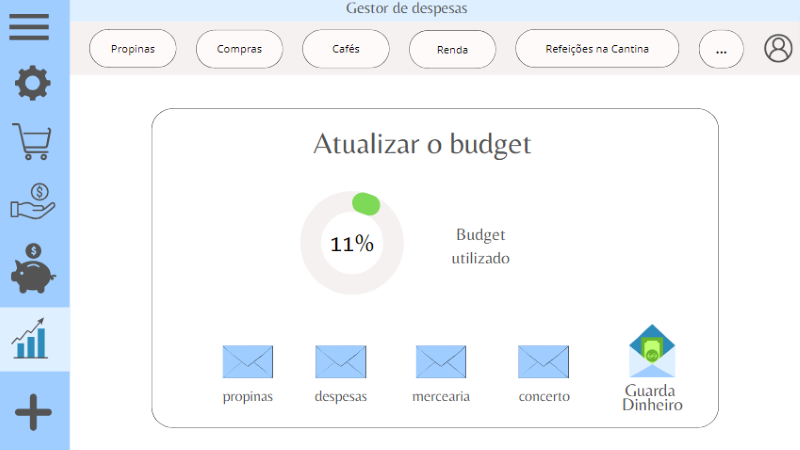
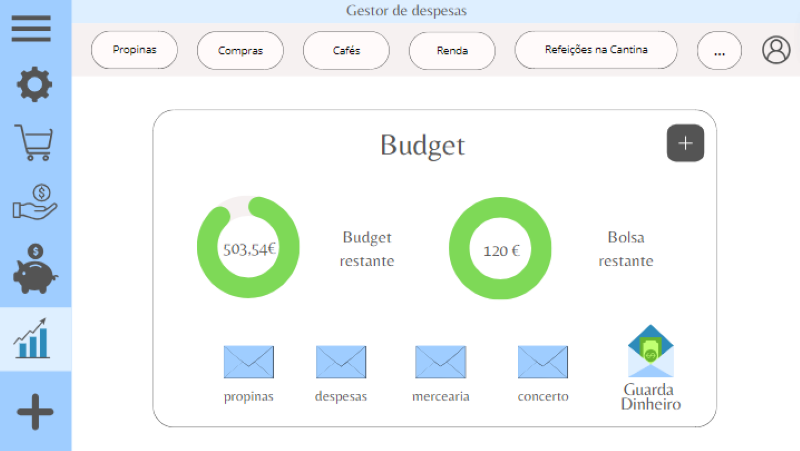
us e mockups done for good

diff --git a/README.md b/README.md
@@ -54,7 +54,7 @@ They may provide financial support to students and have an indirect interest in 
 Although they may not have a direct financial interest, they do have an interest in the general well-being of their students - it is an issue that can affect their academic performance and overall experience at the institution.
 There are also some institutions that offer scholarships to certain students, according to their performance or contribution to it.
 
-##### Users
+#### Users
 Students (People who want to keep a detailed record of their expenses for better financial management. These expenses are distributed between living costs, personal expenses and additional one-off costs).
 
 ***
@@ -105,46 +105,114 @@ It is assumed:
 
 ![Sign up](imgs/login.png)
 
+ Figura 1: Login (US1)
+
 ![Painel Inicial](imgs/pagina_inicial.png)
+
+ Figura 2: Página Inicial 
 
 ![Adicionar despesas](imgs/adicionar_despesa.png)
 
+ Figura 3: Adicionar despesas (US2)
+
 ![Resultado adicionar despesas](imgs/visualizacao_pos_adicao_despesa.png)
+
+ Figura 4: Visualização da despesa adicionada (US2)
+
+![Historico depois de adicionar despesa](imgs/despesas_historico_dps_adicionar.png)
+
+ Figura 5: Histórico de despesas (US11)
 
 ![Despesas por categotia](imgs/despesas_compras.png)
 
+ Figura 6: Despesas por categoria (US13)
+
 ![Despesas](imgs/despesas.png)
+
+ Figura 7: Página inicial das despesas (US4)
 
 ![Gerir categorias](imgs/gerir_categorias.png)
 
+ Figura 8: Gerir categorias (adicionar e eliminar) (US3)
+
 ![Budget](imgs/guardar_montante.png)
+
+ Figura 9: Página inicial do Budget (US8, US14, US12, US10)
 
 ![Objetivos](imgs/objetivos.png)
 
+ Figura 10: Página inicial dos objetivos (US7)
+
 ![Relatorio](imgs/relatorio.png)
 
+ Figura 11: Resultado de gerar relatório (US5,US9)
+
 ![Reservar Montante](imgs/reservar_montantes.png)
+
+ Figura 12: Reservar Montantes (US6)
+
 ***
 
 ### User Stories
 
-- User story 1 (link to issue card)
-- User story 2 (link to issue card)
-- User story 3 (link to issue card)
-- User story 4 (link to issue card)
-- User story 5 (link to issue card)
-- User story 6 (link to issue card)
-- User story 7 (link to issue card)
-- User story 8 (link to issue card)
-- User story 9 (link to issue card)
-- User story 10 (link to issue card)
-- User story 11 (link to issue card)
-- User story 12 (link to issue card)
-- User story 13 (link to issue card)
-- User story 14 (link to issue card)
+- User story 1 (tp-gps-11/gps_g11#1)
+- User story 2 (tp-gps-11/gps_g11#2)
+- User story 3 (tp-gps-11/gps_g11#3)
+- User story 4 (tp-gps-11/gps_g11#7)
+- User story 5 (tp-gps-11/gps_g11#8)
+- User story 6 (tp-gps-11/gps_g11#9)
+- User story 7 (tp-gps-11/gps_g11#10)
+- User story 8 (tp-gps-11/gps_g11#11)
+- User story 9 (tp-gps-11/gps_g11#12)
+- User story 10 (tp-gps-11/gps_g11#13)
+- User story 11 (tp-gps-11/gps_g11#14)
+- User story 12 (tp-gps-11/gps_g11#15)
+- User story 13 (tp-gps-11/gps_g11#16)
+- User story 14 (tp-gps-11/gps_g11#17)
 
 ***
-
+##### User Story 1
+As a new user, I want to be able to create a new account, So that I can start using it and mange my finances effectively.
+***
+##### User Story 2
+As a student, I want to be able to track my daily expenses,so that I can maintain an accurate record of my personal finances.
+***
+##### User Story 3
+As a user, I want to manage categories so that I can organize my expenses according to different types.
+***
+##### User Story 4
+As a student, I want to access expenses so that I can view all my recorded expenses.
+***
+##### User Story 5
+As a student, I want to generate reports so that I can analyze send them or analize them later.
+***
+##### User Story 6
+As a user, I want to reserve amounts for future expenses so that I can plan my budget.
+***
+##### User Story 7
+As a user, I want to set goals so that I can work for a specific objective.
+***
+##### User Story 8
+As a user, I want to see the monthly budget so that I can make adjustments as needed.
+***
+##### User Story 9
+As a user, I want to extract data from reports in PDF and Excel, so that I can share and analyze my expenses.
+***
+##### User Story 10
+As a student, I want to reset the monthly budget, which is the amount of money I have available per month, so that I can start a new period of financial control.
+***
+##### User Story 11
+As a student, I want to view the transaction history so that I can review my past financial activities.
+***
+##### User Story 12
+As a student, I want to view the use of my academic scholarship so that I can keep track of the scholarship usage and decide on the best way to manage it.
+***
+##### User Story 13
+As a user, I want to view expenses by category, so that I can understand in which categories I spend the most money.
+***
+##### User Story 14
+As a working student, I want to add money to my budget, so that I can keep the budget updated.
+***
 ## Definition of done
 
 (This section is already written, do not edit)
@@ -156,247 +224,6 @@ It is a collection of criteria that must be completed for a User Story to be con
 2. Acceptance tests passed
 3. Accepted by the client
 4. Code merged to main
-
-
-***
-
-##### User Story 1
-
-As a new user, I want to be able to create a new account, So that I can start using it and mange my finances effectively.
-
-Story Points - 2S
-
-Priorities  - Must have (M)
-
-###### Acceptance Criteria
-
-
-- When I open the software, I should see a clear and intuitive option to log in or register a new account.
-- During the registration process, I must be asked for my name, email address and create a secure password with verification.
-- After providing the required information, I should receive a verification email to confirm my account.
-- After clicking the verification link in the email, I should receive a confirmation message in the software indicating that my account is active.
-- I should not be able to access the software features until my account is verified.
-- If I encounter any problems during login, such as an invalid email or password, I should receive clear error messages guiding me on how to reset the password.
-
-***
-
-##### User Story 2
-
-As a student, I want to be able to track my daily expenses,so that I can maintain an accurate record of my personal finances.
-
-Story Points -
-
-Priorities  - 
-
-###### Acceptance Criteria
-
-- After logging in, I should have an initial panel.
-- Furthermore, the software must have a very visible entry to enter my expenses.
-- I should be able to enter the amount spent, the date, a optional description and choose an existing category (e.g. food, canteen meals, tuition fees, transport, gym) or create a new one. 
-- The system must validate if the mandatory fields are filled in correctly.
-- After entry, expenses should be recorded and displayed in a list or panel in the application.
-- It should be possible to edit or delete previously entered expenses.
-
-***
-
-##### User Story 3
-
-As a user, I want to manage categories so that I can organize my expenses according to different types.
-
-Story Points -
-
-Priorities  - 
-
-###### Acceptance Criteria
-
-- There should be a section in the application dedicated to category management.
-- The user should be able to create and delete categories.
-- The created categories should be applicable to the expenses entered in User Story 2.
-- It should be possible to assign a category to each expense during entry.
-
-***
-
-##### User Story 4
-
-As a student, I want to access expenses so that I can view all my recorded expenses.
-
-Story Points -
-
-Priorities  - 
-
-###### Acceptance Criteria
-
-- There should be a page or panel where I can view all recorded expenses.
-- Expenses should be displayed in a list or table, showing details such as date, amount, category, and description (if available).
-- I should be able to filter expenses by date, category, or amount.
-
-***
-
-##### User Story 5
-
-As a student, I want to generate reports so that I can analyze send them or analize them later.
-
-Story Points -
-
-Priorities  - 
-
-###### Acceptance Criteria
-
-- There should be a report feature.
-- I should be able to select a specific time period for the report.
-- The report should include information on total spending, spending by category, and other relevant statistics.
-- I should be able to "visual helpers", like graphics.
-
-***
-
-##### User Story 6
-
-As a user, I want to reserve amounts for future expenses so that I can plan my budget.
-
-Story Points -
-
-Priorities  - 
-
-###### Acceptance Criteria
-
-- There should be a feature to reserve amounts for future expenses in the application.
-- I should be able to create specific reservations for expense categories.
-- The system should track the reserved amount and automatically subtract it from future expenses in that category.
-
-***
-
-##### User Story 7
-
-As a user, I want to set budgets for specific expense categories so that I can control my spending.
-
-Story Points -
-
-Priorities  - 
-
-###### Acceptance Criteria
-
-- There should be a feature to set budgets for categories in the application.
-- I should be able to define a maximum budget for each category.
-- The system should provide notifications or alerts when the budget is close to being exceeded.
-
-***
-
-##### User Story 8
-
-As a user, I want to update the monthly budget so that I can make adjustments as needed.
-
-Story Points -
-
-Priorities  - 
-
-###### Acceptance Criteria
-
-- There should be a feature to update budget in the application.
-- I should be able to change the budget amount for each month.
-- The system should reflect the budget updates in the application's statistics and alerts.
-
-
-***
-
-##### User Story 9
-
-As a user, I want to extract data from reports in PDF and Excel, so that I can share and analyze my expenses.
-
-Story Points -
-
-Priorities  - 
-
-###### Acceptance Criteria
-
-- There should be an option to generate reports in PDF and Excel within the application.
-- The PDF reports should be formatted in a clear and legible manner.
-- Excel reports should be exported in a compatible format and structured in an organized manner.
-- The exported reports should include detailed information such as expenses, revenues, categories, and dates.
-
-
-***
-
-##### User Story 10
-
-As a student, I want to reset the monthly budget, which is the amount of money I have available per month, so that I can start a new period of financial control.
-
-Story Points -
-
-Priorities  - 
-
-###### Acceptance Criteria
-
-- There should be a feature that allows the user to reset the monthly budget.
-- Upon resetting, the available amount for the month should be reset to the initial value configured by the user.
-- The transaction and expense history should be preserved and accessible in a separate history.
-
-
-***
-
-##### User Story 11
-
-As a student, I want to view the transaction history so that I can review my past financial activities.
-
-Story Points -
-
-Priorities  - 
-
-###### Acceptance Criteria
-
-- There should be a section or page dedicated to transaction history in the application.
-- The transaction history should be displayed in a list or table, with detailed information such as date, description, amount, and category.
-- I should be able to filter transactions by date, category, or type (income or expense).
-
-
-***
-
-##### User Story 12
-
-As a student, I want to view the use of my wallet (or purse) so that I can keep track of wallet usage and decide on the best way to manage it.
-
-Story Points -
-
-Priorities  - 
-
-###### Acceptance Criteria
-
-- There should be a section or panel that shows the current balance of the user's wallet (or purse).
-- The balance should be displayed clearly and updated in real-time, considering the registered transactions.
-
-
-***
-
-##### User Story 13
-
-As a user, I want to view expenses by category, so that I can understand in which categories I spend the most money.
-
-Story Points -
-
-Priorities  - 
-
-###### Acceptance Criteria
-
-- There should be an option to view expenses grouped by category in the application.
-- Expenses should be presented in charts or tables, showing the amount spent in each category.
-- I should be able to select a specific period for viewing expenses by category.
-
-
-***
-
-##### User Story 14
-
-As a user, I want to view progress towards goals so that I can track how close I am to achieving my financial objectives.
-
-Story Points -
-
-Priorities  - 
-
-###### Acceptance Criteria
-
-- There should be a section in the application that displays progress toward financial goals set by the user.
-- The application should compare expenses and the current balance with the defined goals.
-- There should be a visual representation of progress, such as progress bars or charts, showing how close the user is to achieving their goals.
-
 
 ***
 
